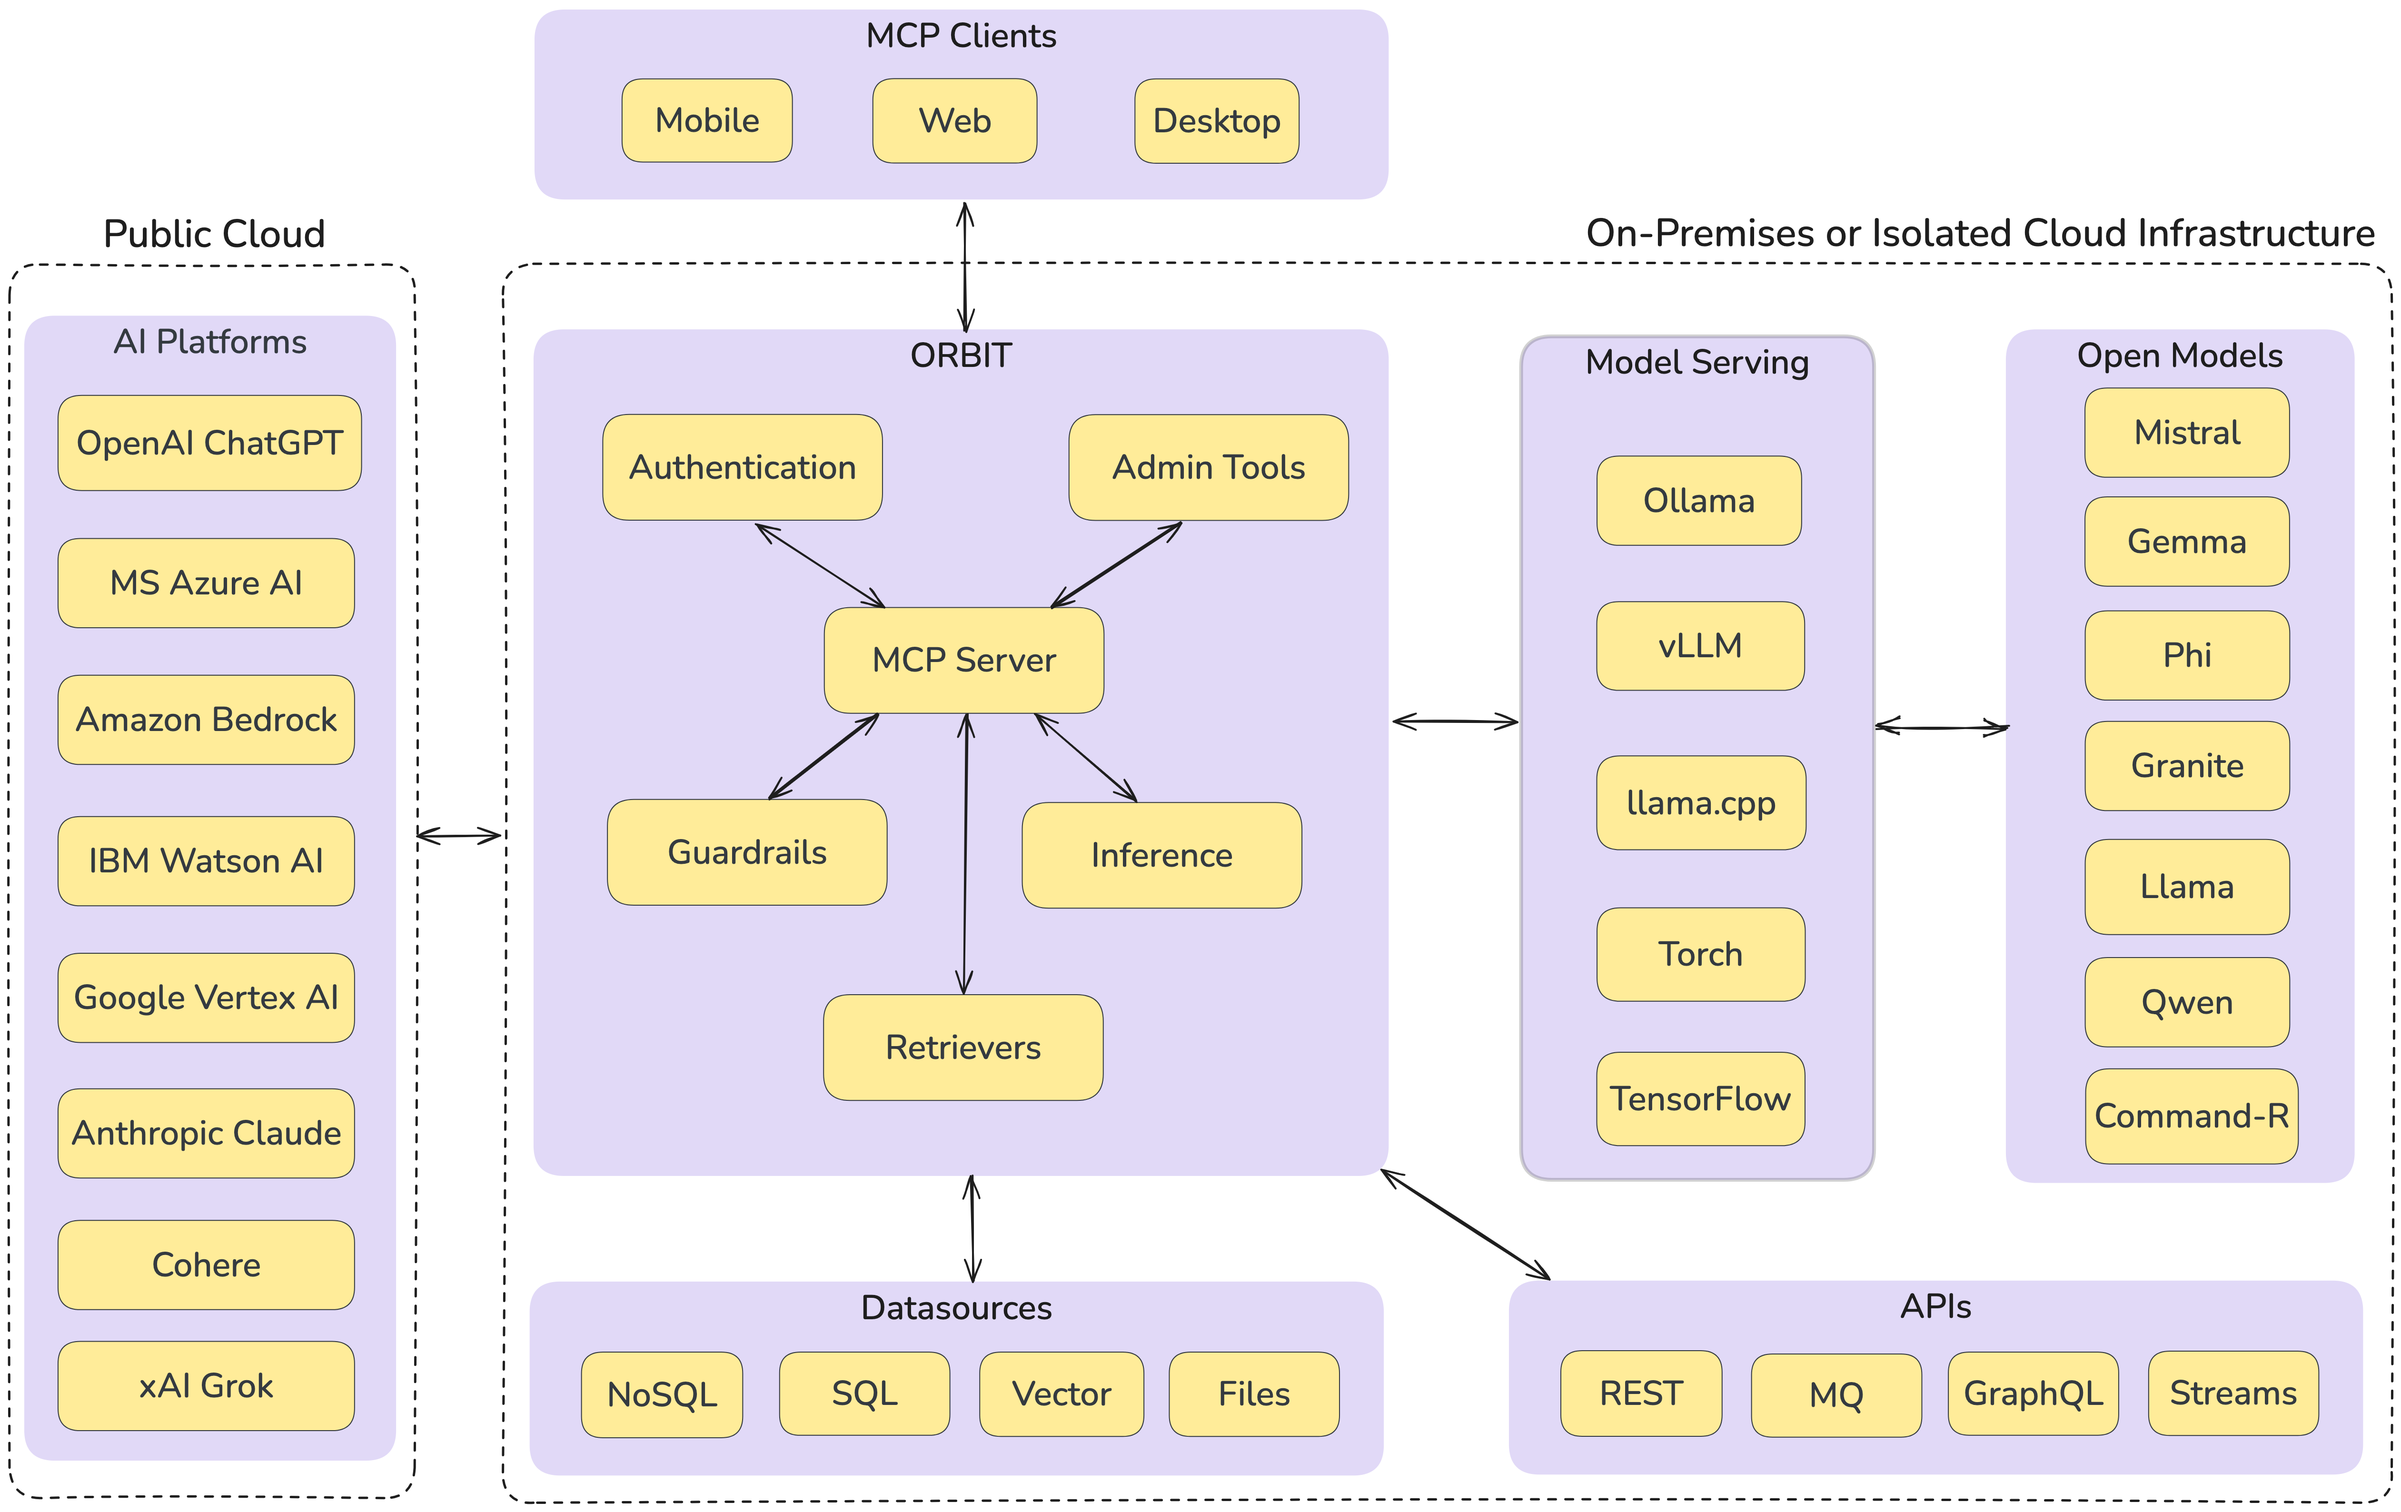
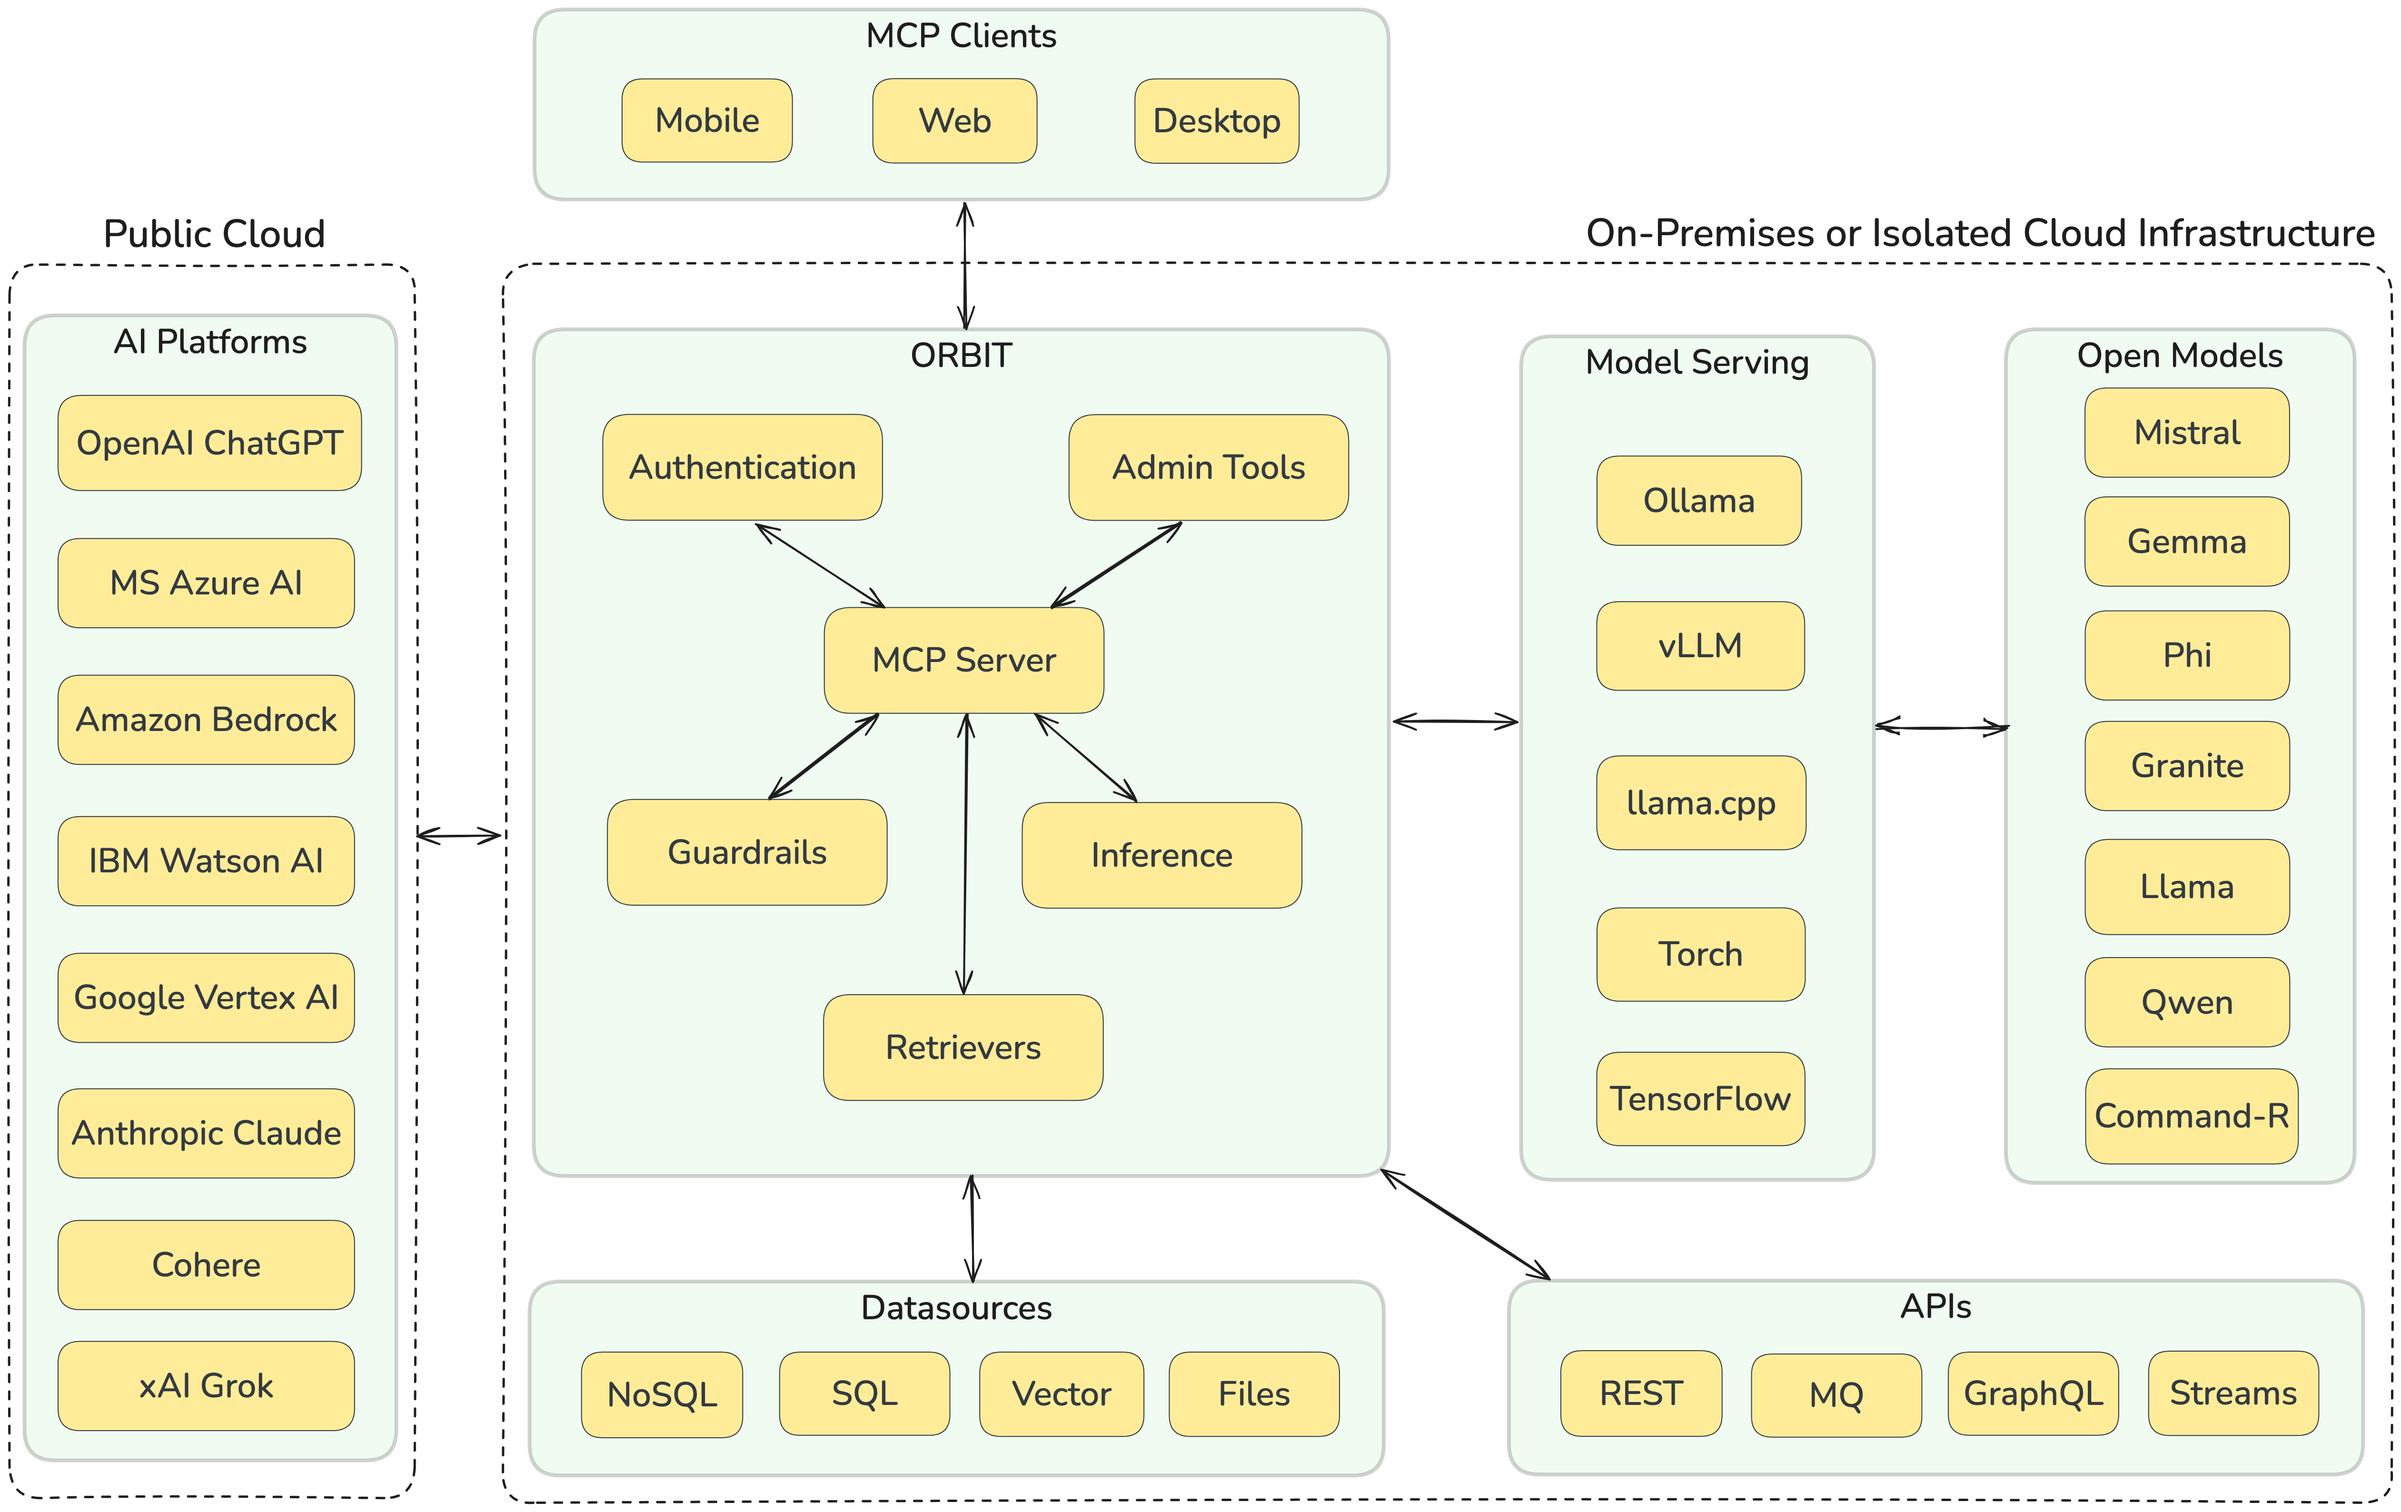
Update README.md
Update diagram, remove logo, minor update in README.

diff --git a/README.md b/README.md
@@ -1,10 +1,10 @@
-<div align="center">
-  <img src="docs/images/orbit.png" width="200" alt="ORBIT">
-</div>
-
-# ORBIT - Open Retrieval-Based Inference Toolkit
+## Open Retrieval-Based Inference Toolkit (ORBIT)
 
 ORBIT is a modular, self-hosted toolkit offering a unified API for open-source AI inference models. Its goal is to help organizations deploy in-house AI solutions that ensure privacy compliance and avoid unpredictable external AI costs. This project is actively maintained by [Remsy Schmilinsky](https://www.linkedin.com/in/remsy/).
+
+<div align="center">
+  <img src="docs/images/orbit-architecture.png" width="800" alt="ORBIT Architecture" />
+</div>
 
 ## 🎉 Jun 27, 2025 - Announcing ORBIT v1.1.4
 
@@ -33,13 +33,8 @@ ORBIT is a modular, self-hosted toolkit offering a unified API for open-source A
 
 *Want to see what's coming next? Check out our [Development Roadmap](docs/roadmap/README.md)*
 
+
 ## Features
-
-<div align="center">
-  <img src="docs/images/orbit-architecture.png" width="800" alt="ORBIT Architecture" />
-</div>
-
-> **Note**: Currently, ORBIT supports SQL, Vector, and File-based retrieval systems. Support for additional data sources is planned for future releases. See [roadmap](https://github.com/schmitech/orbit/tree/main/docs/roadmap) for further details. ORBIT is fast evolving, so if you have a specific requirement that's not currently supported, please let us know so we can add it to our development roadmap.
 
 ### **Retrieval-Augmented Generation (RAG)**
 - **Knowledge Integration**: Connect your data sources to enhance AI responses
